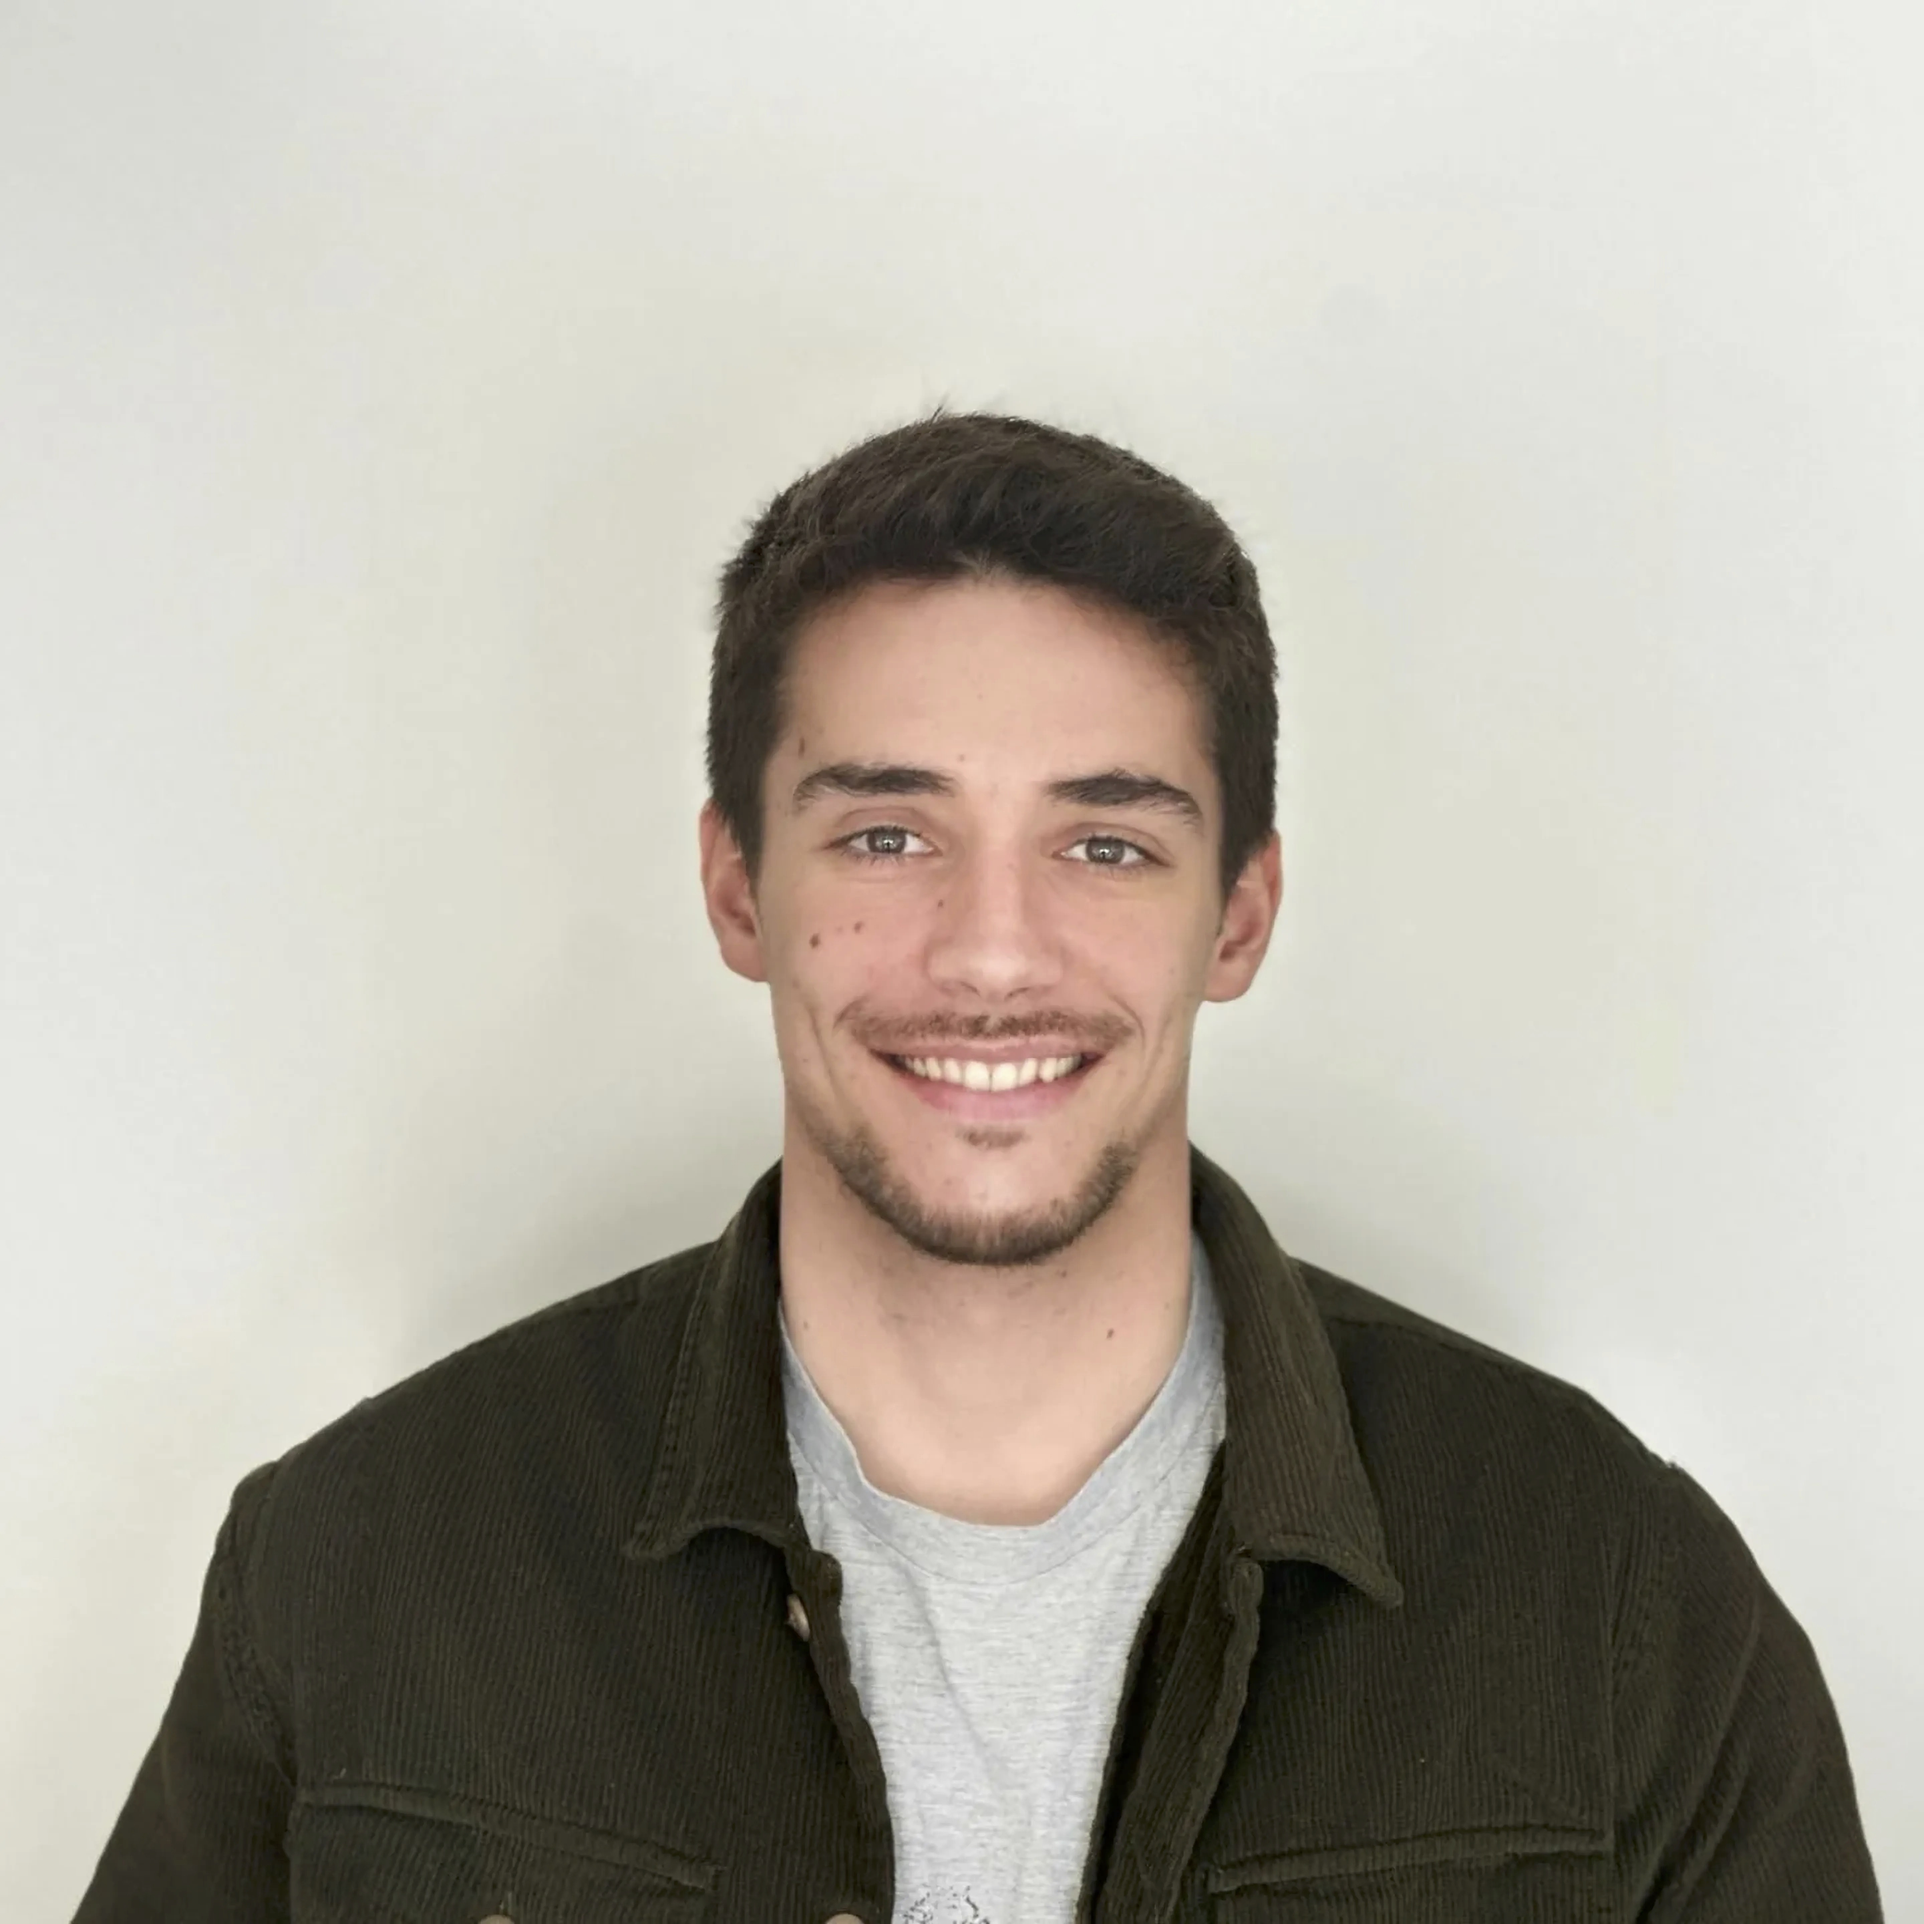
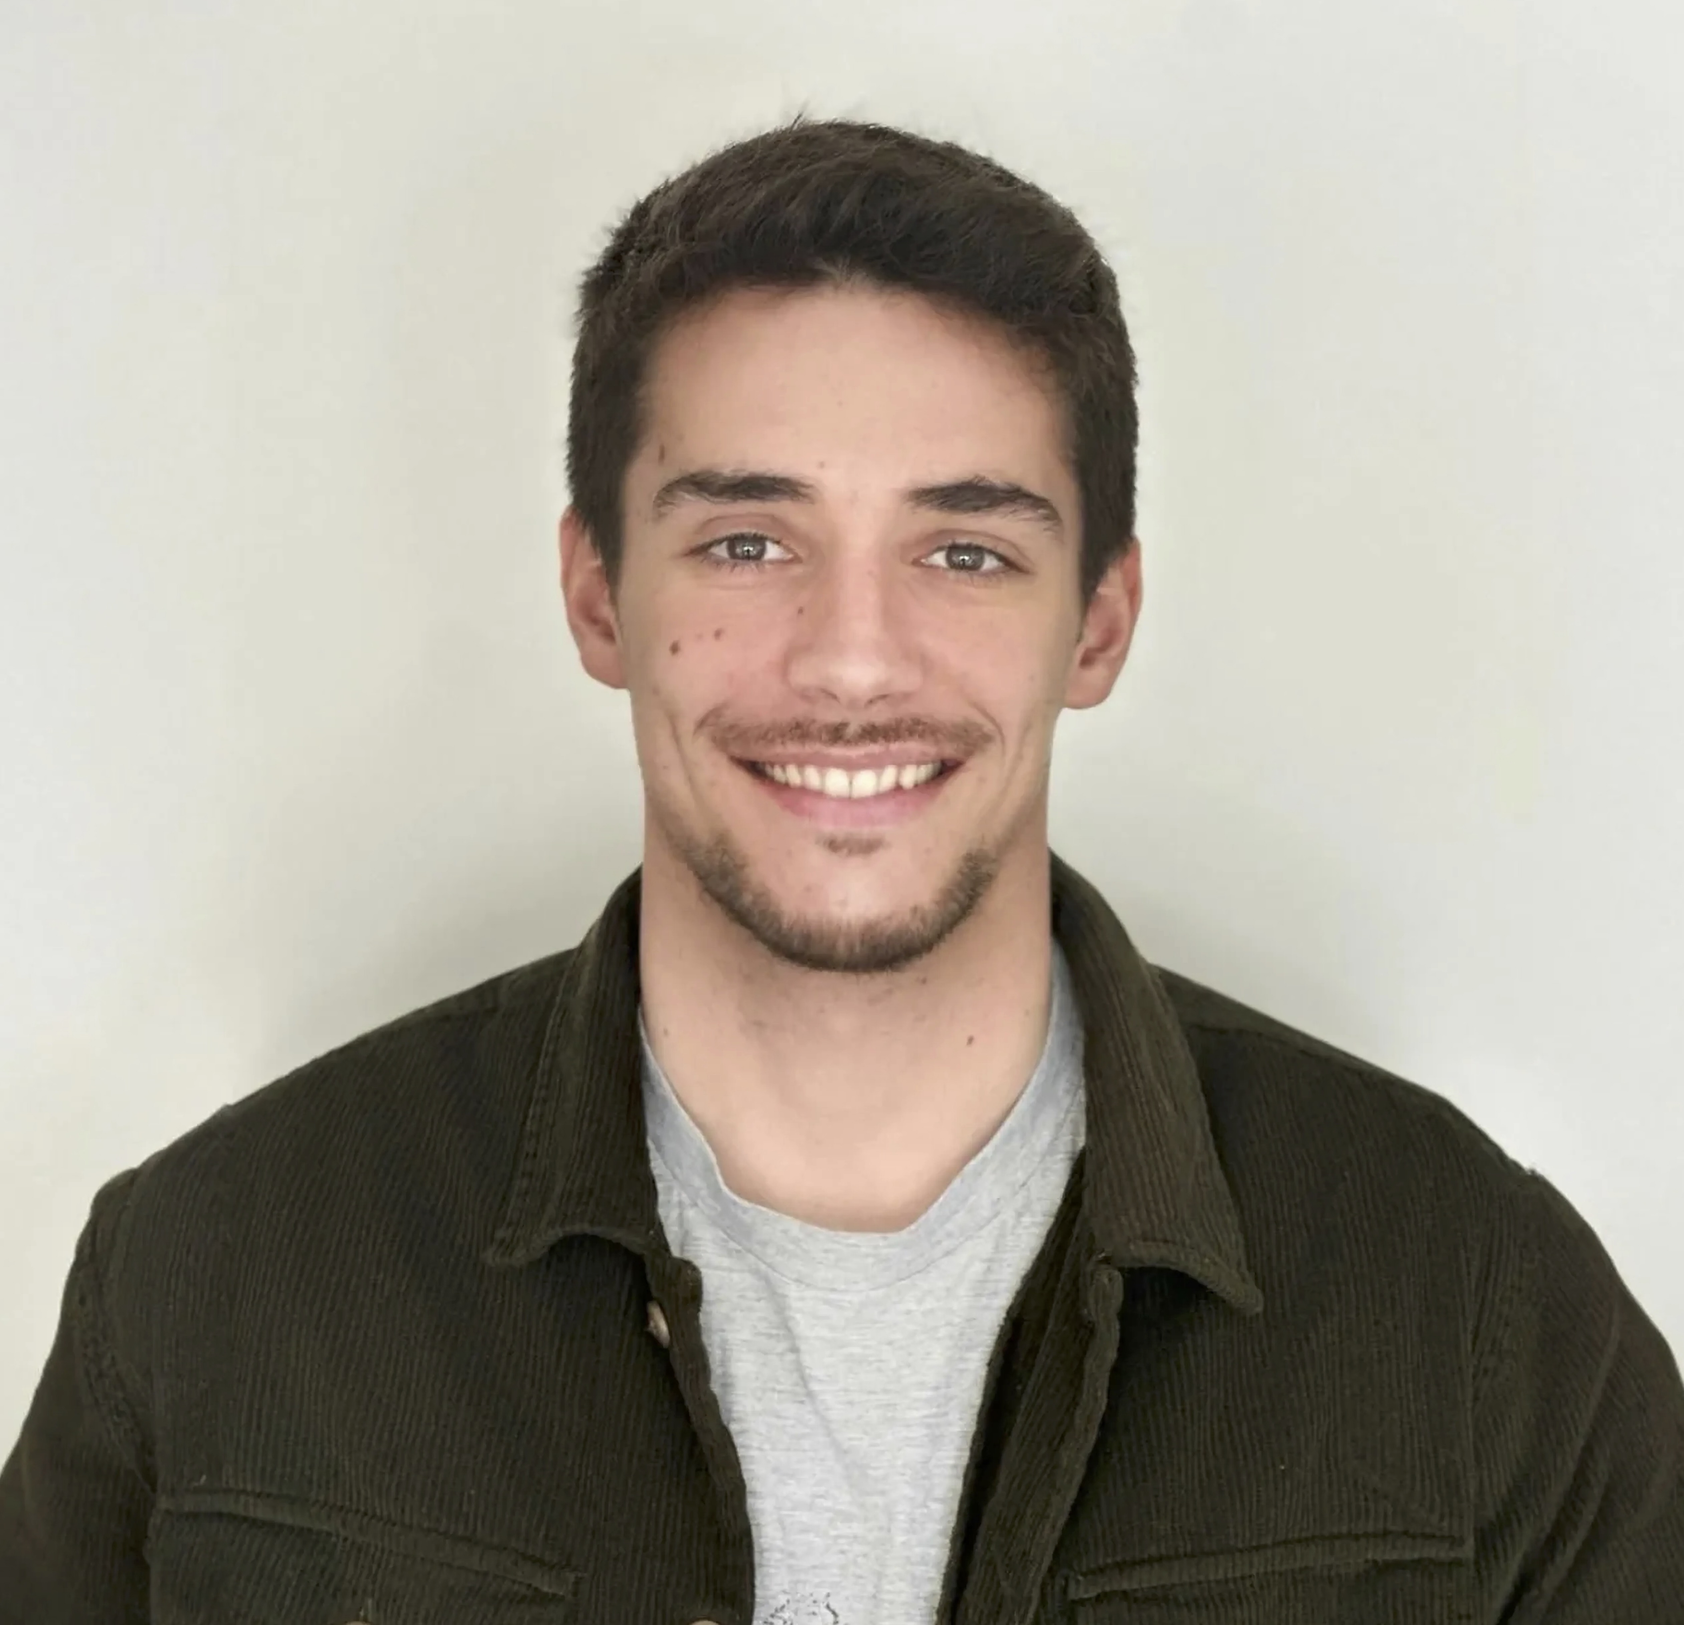
Add files via upload

diff --git a/index.html b/index.html
@@ -29,7 +29,7 @@
 				<div class="container">
 					<div class="row">
 						<div class="col-4 col-5-large col-12-medium">
-							<span class="image fit"><img src="images/headshot copy 2.jpg" alt="Gauthier Fontanive" /></span>
+							<span class="image fit"><img src="images/headshot.jpg" alt="Gauthier Fontanive" /></span>
 						</div>
 						<div class="col-8 col-7-large col-12-medium">
 							<header>

diff --git a/assets/css/main.css b/assets/css/main.css
@@ -2587,3 +2587,8 @@ details.abstract p:last-child {
     text-justify: inter-word;
   }
 }
+
+#contact .box {
+  text-shadow: none;
+  color: #111;
+}
